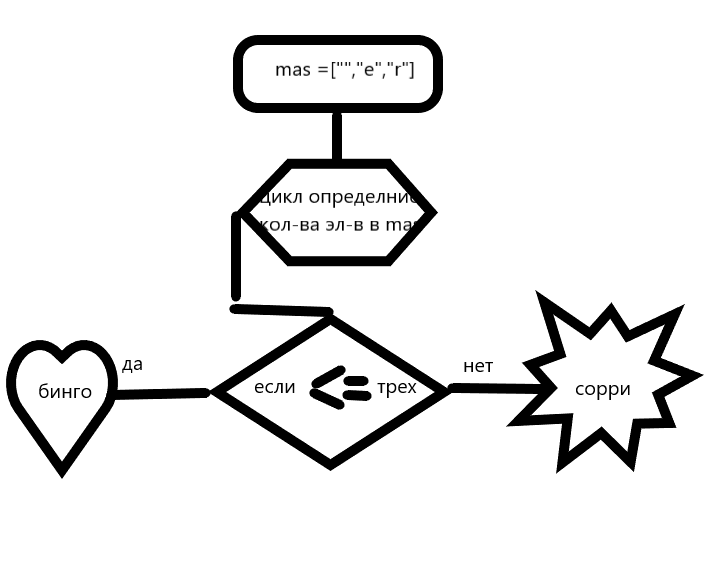
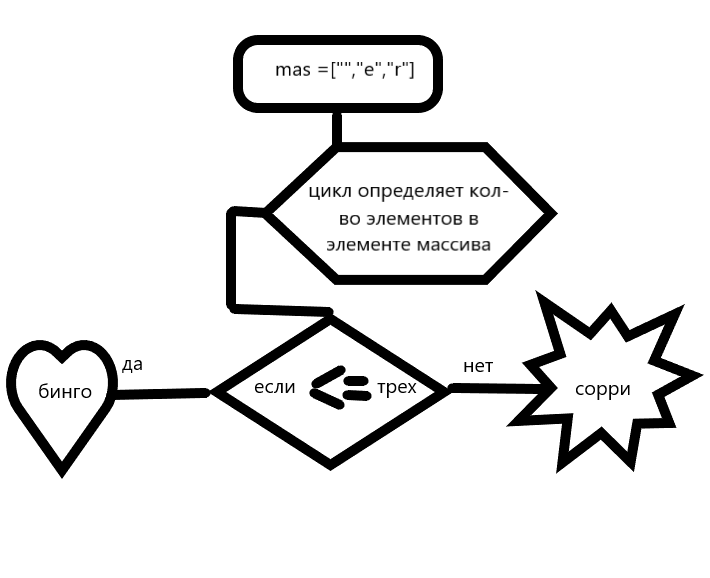
finish

Changed region(s): [[0.3099, 0.218, 0.8056, 0.5294]]

diff --git a/testMass.py b/testMass.py
@@ -1,0 +1,22 @@
+
+mas = ["Afnr", "12"," red"]
+
+def CountQuanntityElementByArray(arr):
+
+    massiv = []
+    for i in mas:
+        countEl = 0
+        for j in i:
+            # print(j)
+            countEl +=1
+        if countEl<=3:
+            massiv.append(i)
+    print(massiv)
+
+CountQuanntityElementByArray(mas)
+print("==="*10)
+mas = ["5fnfaa","45", "afvar","gh","alcrc","ty6"]
+CountQuanntityElementByArray(mas)
+print("==="*10)
+mas = ["c;dao", "vnzk3.", ",.h", ")(-", "dsar(n"]
+CountQuanntityElementByArray(mas)
